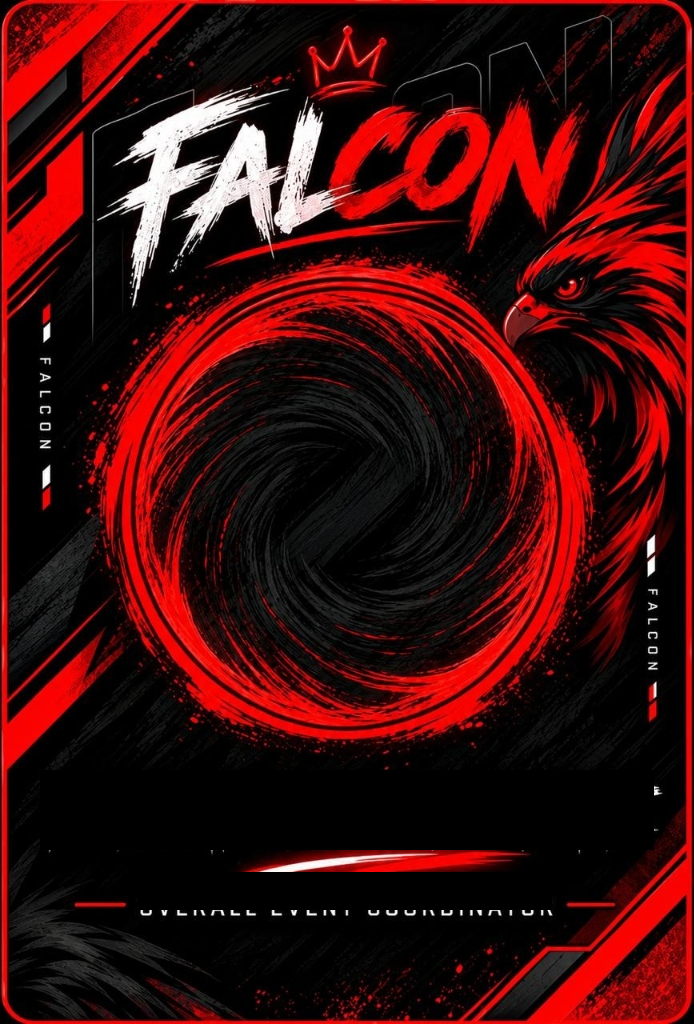
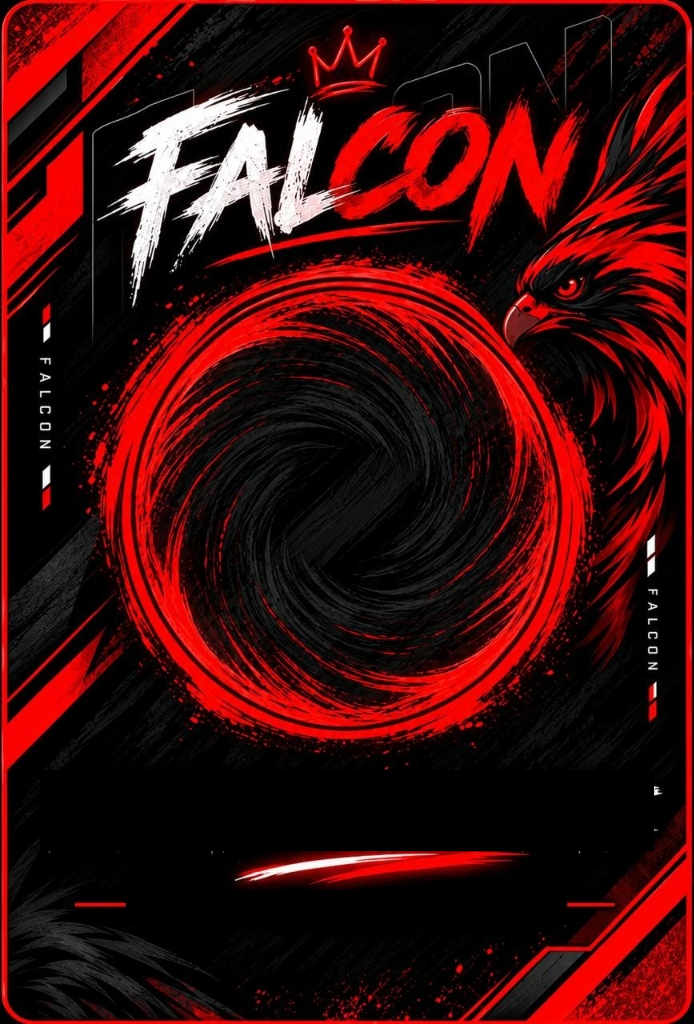
fix: completely remove placeholder text OVERALL EVENT COORDINATOR from card renderer and template

Changed region(s): [[0.3329, 0.8438, 0.6657, 0.9062]]

diff --git a/src/utils/cardRenderer.js b/src/utils/cardRenderer.js
@@ -40,9 +40,9 @@ export const TEMPLATE_CONFIG = {
   // Committee Position Area
   position: {
     cx: 347,
-    y: 896,
-    maxWidth: 390,
-    baseFontSize: 24,
+    y: 905, // Perfectly centered vertically between the left and right red dashes (y=902..907)
+    maxWidth: 420,
+    baseFontSize: 23,
     minFontSize: 13,
     fontFamily: '"Bebas Neue", "Oswald", "Barlow Condensed", sans-serif',
     color: '#FFFFFF',
@@ -52,35 +52,29 @@ export const TEMPLATE_CONFIG = {
   // Placeholder wipe zones (guarantees zero ghost text)
   wipeZones: [
     // Name zone
-    { x: 40, y: 770, w: 614, h: 80 },
-    // Designation zone between dashes
-    { x: 138, y: 872, w: 414, h: 38 }
+    { x: 40, y: 768, w: 614, h: 83 },
+    // Designation zone between dashes (Left dash ends at 125, Right dash begins at 567)
+    { x: 126, y: 889, w: 440, h: 36 }
   ]
 };
 
-// Cache for loaded background template
-let cachedTemplateImg = null;
+// Cache for loaded background templates
+const imageCache = new Map();
 
 export async function loadTemplateImage(src = '/assets/falcon_template_clean.png') {
-  if (cachedTemplateImg && cachedTemplateImg.src.includes(src)) {
-    return cachedTemplateImg;
+  if (imageCache.has(src)) {
+    return imageCache.get(src);
   }
   return new Promise((resolve, reject) => {
     const img = new Image();
     img.crossOrigin = 'anonymous';
     img.onload = () => {
-      cachedTemplateImg = img;
+      imageCache.set(src, img);
       resolve(img);
     };
     img.onerror = (err) => {
-      const fallback = new Image();
-      fallback.crossOrigin = 'anonymous';
-      fallback.onload = () => {
-        cachedTemplateImg = fallback;
-        resolve(fallback);
-      };
-      fallback.onerror = () => reject(err);
-      fallback.src = '/assets/falcon_template_original.jpg';
+      console.warn(`Failed to load template image at ${src}:`, err);
+      reject(err);
     };
     img.src = src;
   });
@@ -114,22 +108,6 @@ export async function renderFalconCard(canvas, data, scale = 1) {
   canvas.width = width;
   canvas.height = height;
   const ctx = canvas.getContext('2d');
-
-  // Check if this is the original template sample (no photo, with default placeholder name & position)
-  const isOriginalTemplate = 
-    (!photoElement) &&
-    (!name || name.trim().toUpperCase() === "TEMPLATE PERSON'S NAME") &&
-    (!position || position.trim().toUpperCase() === "OVERALL EVENT COORDINATOR");
-
-  if (isOriginalTemplate) {
-    try {
-      const origTemplateImg = await loadTemplateImage('/assets/falcon_template_original.jpg');
-      ctx.drawImage(origTemplateImg, 0, 0, width, height);
-      return;
-    } catch (e) {
-      console.error('Failed to load original template image:', e);
-    }
-  }
 
   // 1. Clear background
   ctx.fillStyle = '#080808';

diff --git a/src/App.jsx b/src/App.jsx
@@ -125,8 +125,8 @@ export default function App() {
   const handleAddToCardList = async () => {
     const isOriginalTemplate = 
       (!activePhoto) &&
-      (!name || name.trim().toUpperCase() === "TEMPLATE PERSON'S NAME") &&
-      (!position || position.trim().toUpperCase() === "OVERALL EVENT COORDINATOR");
+      (name.trim().toUpperCase() === "TEMPLATE PERSON'S NAME") &&
+      (position.trim().toUpperCase() === "OVERALL EVENT COORDINATOR");
 
     if (!isOriginalTemplate && (!name.trim() || !position.trim() || !activePhoto)) {
       alert('Please provide student photo, name, and committee position before adding to list.');

diff --git a/src/components/PreviewPanel.jsx b/src/components/PreviewPanel.jsx
@@ -105,8 +105,8 @@ export default function PreviewPanel({
 
   const isOriginalTemplate = 
     (!activePhoto) &&
-    (!name || name.trim().toUpperCase() === "TEMPLATE PERSON'S NAME") &&
-    (!position || position.trim().toUpperCase() === "OVERALL EVENT COORDINATOR");
+    (name.trim().toUpperCase() === "TEMPLATE PERSON'S NAME") &&
+    (position.trim().toUpperCase() === "OVERALL EVENT COORDINATOR");
 
   const isFormComplete = (name.trim().length > 0 && position.trim().length > 0 && activePhoto) || isOriginalTemplate;
 
